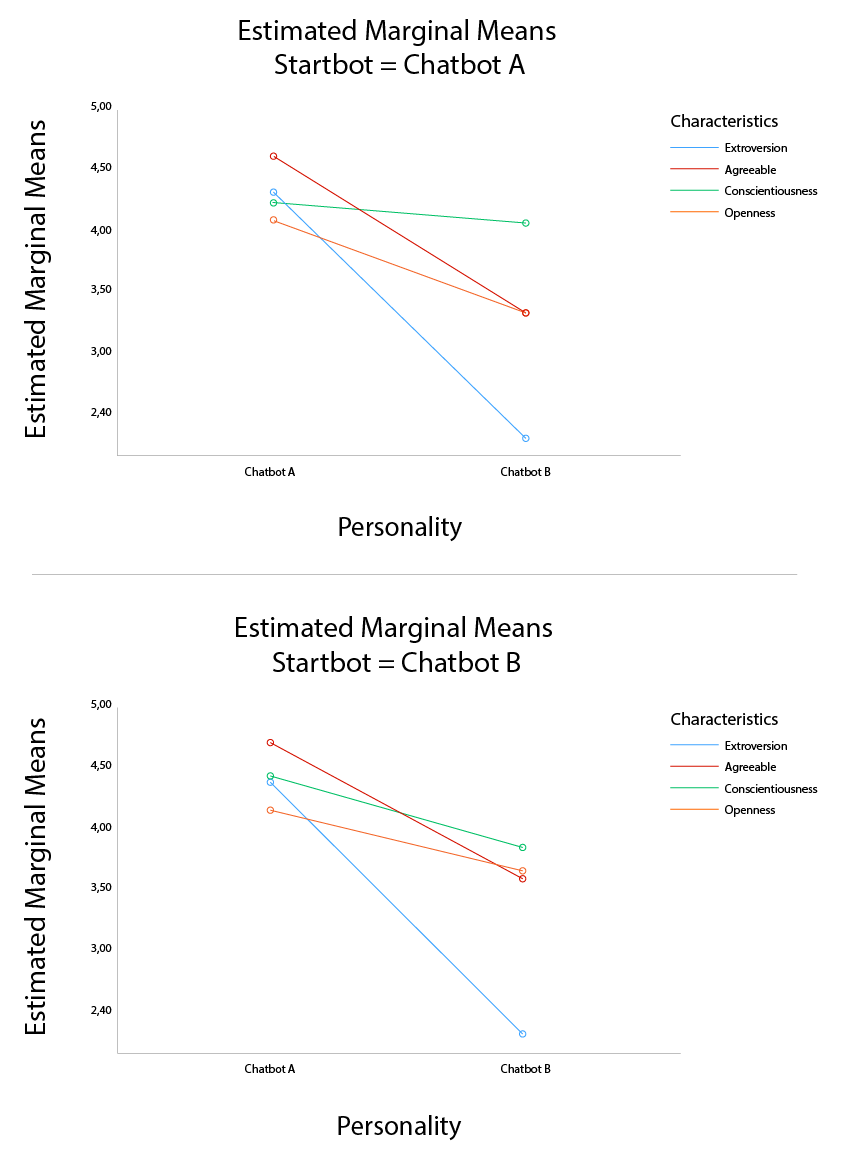
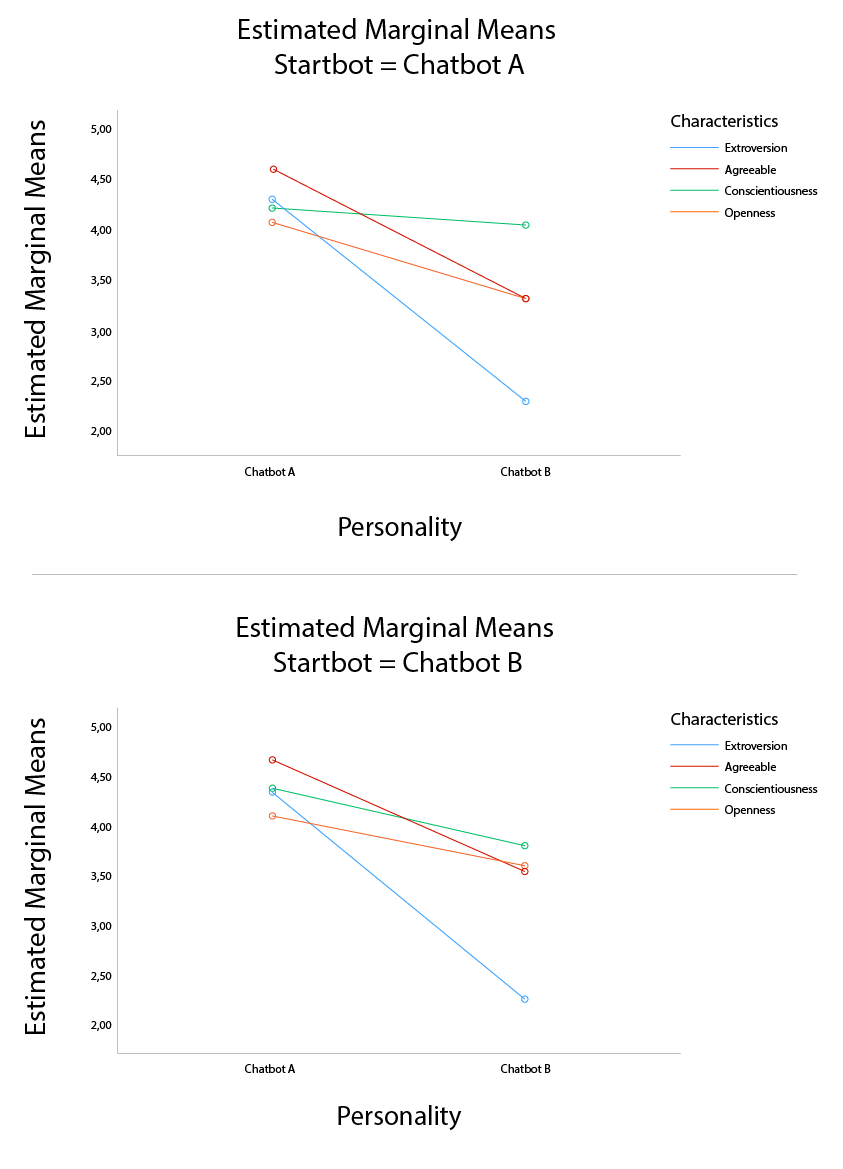
Updates from ShareLaTeX

diff --git a/inc/results.tex b/inc/results.tex
@@ -9,19 +9,19 @@ The characteristics were rated using a scale from 1-5 in which 5 meant a high pe
 
 \begin{table}[h]
 \centering
-\begin{tabular}{cccccc}
+\begin{tabular}{lccccc}
 \hline
 \multicolumn{6}{c}{\textbf{Descriptive Statistics}} \\
 \hline
 & N & Minimum & Maximum & Mean & Std. Deviation \\
-Extroversion_A & 16 & 2 & 5 & 4,3125 & 0,8116 \\
-Extroversion_B & 16 & 1,67 & 3,33 & 2,2708 & 0,47483 \\
-Agreeable_A & 16 & 4 & 5 & 4,625 & 0,30277 \\
-Agreeable_B & 16 & 2,25 & 4,5 & 3,4219 & 0,57532 \\
-Conscientious_A & 16 & 3,33 & 5 & 4,2917 & 0,5146 \\
-Conscientious_B & 16 & 2,67 & 4,67 & 3,9167 & 0,60246 \\
-Openness_A & 16 & 3 & 5 & 4,0781 & 0,59665 \\
-Openness_B & 16 & 1,5 & 5 & 3,4531 & 0,92294 \\
+$Extroversion_A$ & 16 & 2 & 5 & 4,3125 & 0,8116 \\
+$Extroversion_B$ & 16 & 1,67 & 3,33 & 2,2708 & 0,47483 \\
+$Agreeable_A$ & 16 & 4 & 5 & 4,625 & 0,30277 \\
+$Agreeable_B$ & 16 & 2,25 & 4,5 & 3,4219 & 0,57532 \\
+$Conscientious_A$ & 16 & 3,33 & 5 & 4,2917 & 0,5146 \\
+$Conscientious_B$ & 16 & 2,67 & 4,67 & 3,9167 & 0,60246 \\
+$Openness_A$ & 16 & 3 & 5 & 4,0781 & 0,59665 \\
+$Openness_B$ & 16 & 1,5 & 5 & 3,4531 & 0,92294 \\
 \end{tabular}
  \caption{Descriptive statistics chatbot characteristics results}
  \label{table:5}
@@ -38,6 +38,13 @@ There was a significant main effect of the two levels of personality with respec
     \label{fig:characstartAB}
 \end{figure}
 
+\begin{figure}
+    \centering
+    \includegraphics[scale=0.4]{figures/Errorbars_characertistics.png}
+    \caption{Estimated marginal means of characteristics starting condition Chatbot A and Chatbot B with Error bars: 95\% CI}
+    \label{fig:errorCh}
+\end{figure}
+
 The data was also tested for whether there was an interaction effect of gender. This two-way repeated measures ANOVA revealed no significant interaction effect of gender (Personality*Characteristics*Gender) p=,331.
 
 The paired-samples t-test found that there is a significant difference between the two levels of personality and the perceived characteristics. Agreeableness Chatbot B (M=3,4219, SD=,57532) and Agreeableness Chatbot A (M=4,6250, SD=,30277); t(15)=-8,760, p < ,001. Extroversion Chatbot B (M=2,2708, SD=,47483) and Extroversion Chatbot A (M=4,3125, SD=,81166) t(15)=-8,976, p < ,001. Openness Chatbot B (M=3,4531, SD=,92294) and Openness Chatbot A (M=4,0781 SD=,59665) t(15)=-3,727, p = ,002. Conscientiousness Chatbot B (M=3,9167, SD=,60246) and Conscientiousness Chatbot A (M=4,2917, SD=,51460) t(15)=-2,522, p = ,023. These results suggests that participants perceived the two personalities as significantly different from one another. The Mean score difference between Chatbot B and A, suggests that participants perceived all characteristics in Chatbot A to a higher degree than in Chatbot B, where the extroversion factor had the largest difference in mean score.
@@ -48,19 +55,19 @@ The results from the AttrakDiff evaluation was also analysed by running a paired
 
 \begin{table}[h]
 \centering
-\begin{tabular}{cccccc}
+\begin{tabular}{lccccc}
 \hline
 \multicolumn{6}{c}{\textbf{Descriptive Statistics}} \\
 \hline
 & N & Minimum & Maximum & Mean & Std. Deviation \\
-PQ_A & 16 & 4,86 & 6,71 & 5,9286 & 0,56424 \\
-PQ_B & 16 & 4 & 6,43 & 5,4732 & 0,5964 \\
-HQ-I_A & 16 & 4 & 6,29 & 5,4821 & 0,53165 \\
-HQ-I_B & 16 & 3,57 & 5,43 & 4,7679 & 0,56874 \\
-HQ-S_A & 16 & 5,14 & 6,14 & 5,625 & 0,29909 \\
-HQ-S_B & 16 & 2,57 & 6,57 & 4,7768 & 1,19405 \\
-ATT_A & 16 & 5,14 & 7 & 6,3482 & 0,44864 \\
-ATT_B & 16 & 3,9 & 6,3 & 5,339 & 0,7805 \\
+$PQ_A$ & 16 & 4,86 & 6,71 & 5,9286 & 0,56424 \\
+$PQ_B$ & 16 & 4 & 6,43 & 5,4732 & 0,5964 \\
+$HQ-I_A$ & 16 & 4 & 6,29 & 5,4821 & 0,53165 \\
+$HQ-I_B$ & 16 & 3,57 & 5,43 & 4,7679 & 0,56874 \\
+$HQ-S_A$ & 16 & 5,14 & 6,14 & 5,625 & 0,29909 \\
+$HQ-S_B$ & 16 & 2,57 & 6,57 & 4,7768 & 1,19405 \\
+$ATT_A$ & 16 & 5,14 & 7 & 6,3482 & 0,44864 \\
+$ATT_B$ & 16 & 3,9 & 6,3 & 5,339 & 0,7805 \\
 \end{tabular}
 \caption{Descriptive statistics AttrakDiff results}
  \label{table:6}
@@ -73,15 +80,22 @@ There was a significant main effect of the two levels of personality with respec
 \begin{figure}[h]
     \centering
     \includegraphics[scale=0.4]{figures/MMeanStartbotA.png}
-    \caption{Estimated marginal means starting condition chatbot A}
+    \caption{Estimated marginal means starting condition chatbot A user experience score}
     \label{fig:startA}
 \end{figure}
 
 \begin{figure}
     \centering
     \includegraphics[scale=0.4]{figures/MMeanStartbotB.png}
-    \caption{Estimated marginal means starting condition chatbot B}
+    \caption{Estimated marginal means starting condition chatbot B user experience score}
     \label{fig:startB}
+\end{figure}
+
+\begin{figure}
+    \centering
+    \includegraphics[scale=0.4]{figures/ErrorBarsStartbotAB.png}
+    \caption{Estimated marginal means of user experience score starting condition Chatbot A and Chatbot B with Error bars: 95\% CI}
+    \label{fig:errorUX}
 \end{figure}
 
 Another two-way repeated measures ANOVA was conducted to investigate whether gender had any significant interaction effect on the variables. The analysis found that there was no significant interaction effect between personality, user experience and gender (personality*UXscore*gender) p=,436.

diff --git a/inc/methodology.tex b/inc/methodology.tex
@@ -268,7 +268,7 @@ Part 1 of the experiment, to assess whether participants perceive the intended p
 
 \subsubsection{Data Collection Experiment Part 1}
 
-To collect the necessary data to assess the stated hypotheses for Experiment 1, the participants will be asked to evaluate the predefined characteristics of the personalities each chatbot is modelled on, on a five-point Likert scale. The data collection forms are the same for each chatbot. The characteristics included in the data collection form are the characteristics Chatbot A's personality is modelled on, as seen in Table \ref{tab:datacolchar}. Chatbot B only has three characteristics in common with Chatbot A: 1) Reliable 2) consistent 3) Perceptive, which are found in the conscientiousness factor. Therefore, if the personality for Chatbot A and the personality for Chatbot B is perceived as intended, the results should have these three characteristics rated to a high degree by all participants. All other characteristics should be rated to a low degree for Chatbot B, and to a high degree for Chatbot A. This experiment is conducted to determine to what extent participants perceived the given traits, and whether participants are in agreement of the perceived traits. This will help determine whether the chatbot script has been successful in displaying the correct and intended personality; or whether participants perceive a different personality for one or both chatbot versions. It will also inform to what degree the two personalities are seen as different by all participants. All participants will be subject to all conditions, and asked to evaluate each chatbot versions independently. 
+To collect the necessary data to assess the stated hypotheses for part one of the experiment, the participants will be asked to evaluate the predefined characteristics of the personalities each chatbot is modelled on, on a five-point Likert scale. The data collection forms are the same for each chatbot. The characteristics included in the data collection form are the characteristics Chatbot A's personality is modelled on, as seen in Table \ref{tab:datacolchar}. Chatbot B only has three characteristics in common with Chatbot A: 1) Reliable 2) consistent 3) Perceptive, which are found in the conscientiousness factor. Therefore, if the personality for Chatbot A and the personality for Chatbot B is perceived as intended, the results should have these three characteristics rated to a high degree by all participants. All other characteristics should be rated to a low degree for Chatbot B, and to a high degree for Chatbot A. This experiment is conducted to determine to what extent participants perceived the given traits, and whether participants are in agreement of the perceived traits. This will help determine whether the chatbot script has been successful in displaying the correct and intended personality; or whether participants perceive a different personality for one or both chatbot versions. It will also inform to what degree the two personalities are seen as different by all participants. All participants will be subject to all conditions, and asked to evaluate each chatbot versions independently. 
 
 \vspace{2,5mm}
 
